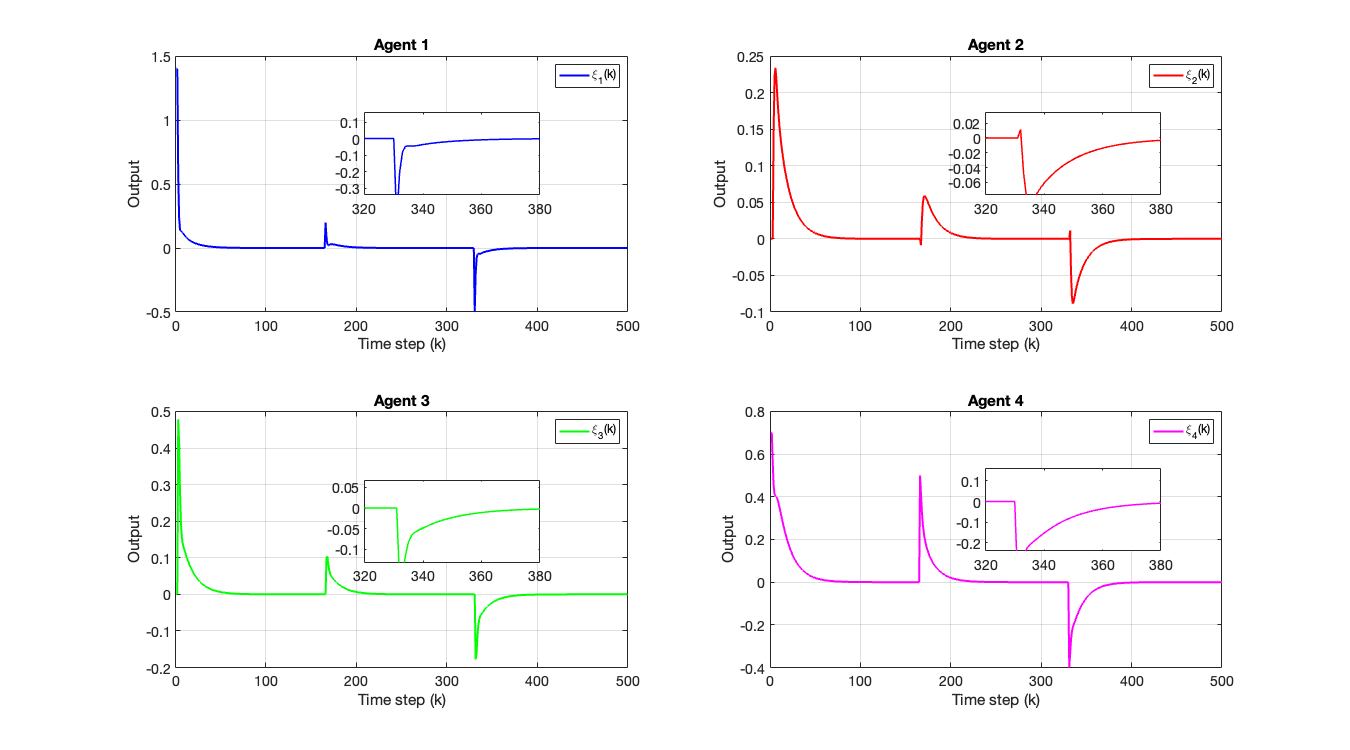
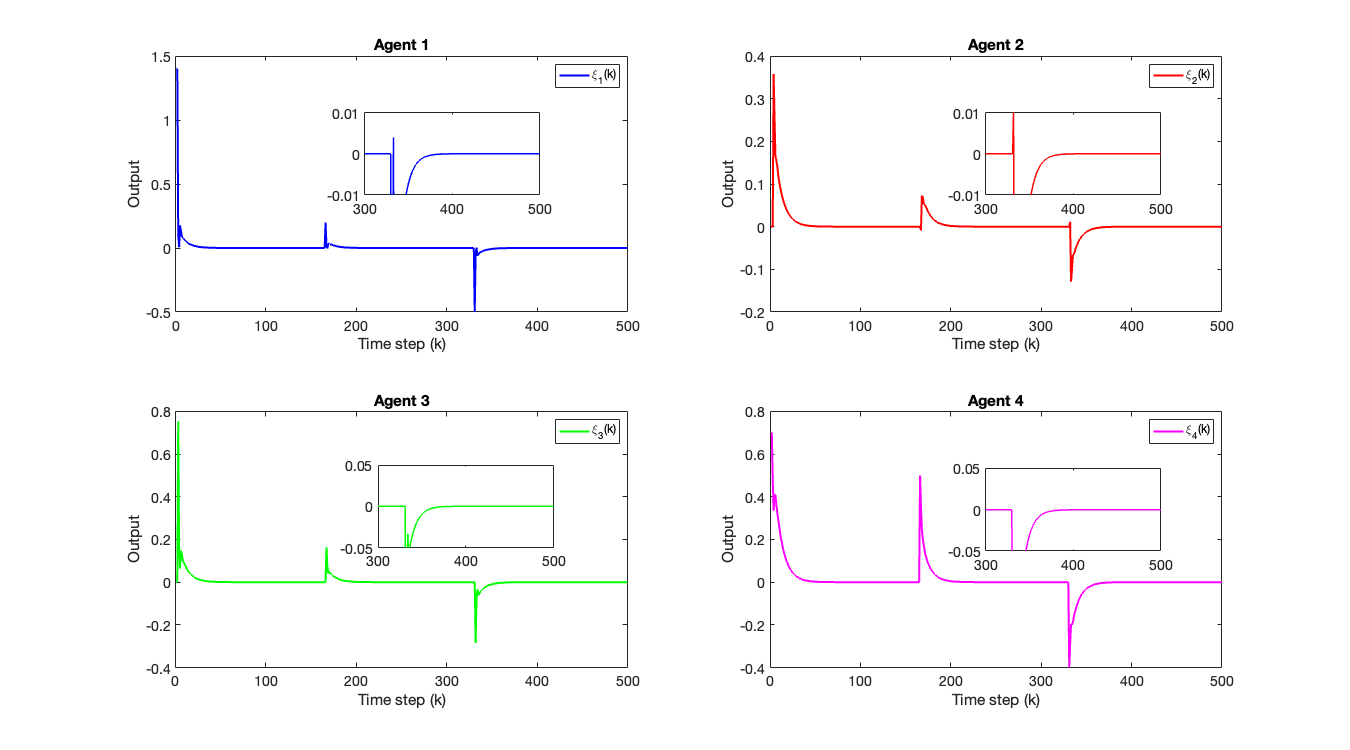
asda

diff --git a/xi_mfasmcc.m b/xi_mfasmcc.m
@@ -4,7 +4,7 @@ clc; clear;
 
 rho = 10.5;
 eta = 5;
-lamda = 150;
+lamda = 120;
 mu = 80.5;
 epsilon = 1e-5;
 alpha = 1;
@@ -69,30 +69,30 @@ omega3 = zeros(m, 1);
 omega4 = zeros(m, 1);
 
 %Time Invarying Leaders signals (w5, w6)
-% % Preallocate arrays (adjust size if needed)
-% w5 = zeros(1, m);  % example length, adjust as needed
-% w6 = zeros(1, m);  % example length, adjust as needed
+% Preallocate arrays (adjust size if needed)
+w5 = zeros(1, m);  % example length, adjust as needed
+w6 = zeros(1, m);  % example length, adjust as needed
 
-% % Set w5 values according to conditions
-% w5(1:165)     = 1.4;
-% w5(166:330)   = 1.6;
-% w5(331:end)   = 1.1;
+% Set w5 values according to conditions
+w5(1:165)     = 1.4;
+w5(166:330)   = 1.6;
+w5(331:end)   = 1.1;
 
-% % Set w6 values according to conditions
-% w6(1:165)     = 0.7;
-% w6(166:330)   = 1.2;
-% w6(331:end)   = 0.8;
+% Set w6 values according to conditions
+w6(1:165)     = 0.7;
+w6(166:330)   = 1.2;
+w6(331:end)   = 0.8;
 
 
-% Time vector for sinusoidal signals
-k = 1:m;
-t = (k-1) * T; % Time vector: t = (k-1)*T
+% % Time vector for sinusoidal signals
+% k = 1:m;
+% t = (k-1) * T; % Time vector: t = (k-1)*T
 
-% Define sinusoidal leader signals (choose one of the variations below)
+% % Define sinusoidal leader signals (choose one of the variations below)
 
-% Variation 1: Low-frequency, same amplitude, phase-shifted signals
-w5 = 0.5 + 0.25 * sin(0.1 * t); % Amplitude = 0.25, frequency = 0.1 rad/s, offset = 1.15
-w6 = 0.5 + 0.25 * sin(0.1 * t + pi/2); % Same amplitude and frequency, phase shift = pi/2
+% % Variation 1: Low-frequency, same amplitude, phase-shifted signals
+% w5 = 0.5 + 0.25 * sin(0.1 * t); % Amplitude = 0.25, frequency = 0.1 rad/s, offset = 1.15
+% w6 = 0.5 + 0.25 * sin(0.1 * t + pi/2); % Same amplitude and frequency, phase shift = pi/2
 
 
 
@@ -270,7 +270,7 @@ plot(k, xi1(1:m), 'b', 'LineWidth', 2);
 title('Agent 1', 'FontSize', 14);
 xlabel('Time step (k)', 'FontSize', 14);
 ylabel('Output', 'FontSize', 14);
-legend('\xi_1(k)', 'FontSize', 12);
+legend('\Xi_1(k)', 'FontSize', 12);
 grid off;
 set(gca, 'FontSize', 14);
 
@@ -289,7 +289,7 @@ plot(k, xi2(1:m), 'r', 'LineWidth', 2);
 title('Agent 2', 'FontSize', 14);
 xlabel('Time step (k)', 'FontSize', 14);
 ylabel('Output', 'FontSize', 14);
-legend('\xi_2(k)', 'FontSize', 12);
+legend('\Xi_2(k)', 'FontSize', 12);
 grid off;
 set(gca, 'FontSize', 14);
 axes('Position', [0.73 0.74 0.13 0.11]);
@@ -305,10 +305,10 @@ plot(k, xi3(1:m), 'g', 'LineWidth', 2);
 title('Agent 3', 'FontSize', 14);
 xlabel('Time step (k)', 'FontSize', 14);
 ylabel('Output', 'FontSize', 14);
-legend('\xi_3(k)', 'FontSize', 12);
+legend('\Xi_3(k)', 'FontSize', 12);
 grid off;
 set(gca, 'FontSize', 14);
-axes('Position', [0.27 0.25 0.13 0.11]);
+axes('Position', [0.28 0.27 0.13 0.11]);
 box on;
 plot(k(zoomStart:zoomEnd), xi3(zoomStart:zoomEnd), 'g', 'LineWidth', 1.5);
 ylim([-0.05 0.05]);  % <-- added line
@@ -320,7 +320,7 @@ plot(k, xi4(1:m), 'm', 'LineWidth', 2);
 title('Agent 4', 'FontSize', 14);
 xlabel('Time step (k)', 'FontSize', 14);
 ylabel('Output', 'FontSize', 14);
-legend('\xi_4(k)', 'FontSize', 12);
+legend('\Xi_4(k)', 'FontSize', 12);
 grid off;
 set(gca, 'FontSize', 14);
 axes('Position', [0.73 0.265 0.13 0.11]);

diff --git a/mfasmcc.m b/mfasmcc.m
@@ -81,12 +81,12 @@ for i = 1:4
 
     subplot(2, 2, i);
     
-    plot(t, y1(1:m+1), 'b-', 'LineWidth', 2, 'DisplayName', 'y1'); hold on;
-    plot(t, y2(1:m+1), 'r-', 'LineWidth', 2, 'DisplayName', 'y2');
-    plot(t, y3(1:m+1), 'g-', 'LineWidth', 2, 'DisplayName', 'y3');
-    plot(t, y4(1:m+1), 'm-', 'LineWidth', 2, 'DisplayName', 'y4');
-    plot(k, w5, 'c--', 'LineWidth', 2, 'DisplayName', 'w5'); 
-    plot(k, w6, 'k--', 'LineWidth', 2, 'DisplayName', 'w6');
+    plot(t, y1(1:m+1), 'b-', 'LineWidth', 2, 'DisplayName', 'y1(k)'); hold on;
+    plot(t, y2(1:m+1), 'r-', 'LineWidth', 2, 'DisplayName', 'y2(k)');
+    plot(t, y3(1:m+1), 'g-', 'LineWidth', 2, 'DisplayName', 'y3(k)');
+    plot(t, y4(1:m+1), 'm-', 'LineWidth', 2, 'DisplayName', 'y4(k)');
+    plot(k, w5, 'c--', 'LineWidth', 2, 'DisplayName', 'w5(k)'); 
+    plot(k, w6, 'k--', 'LineWidth', 2, 'DisplayName', 'w6(k)');
     hold off;
 
     title(['\lambda = ', num2str(lambda)], 'FontSize', font_size);
